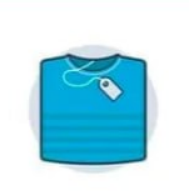
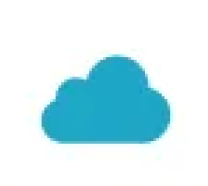
tailwind css

diff --git a/index.html b/index.html
@@ -1,53 +1,30 @@
-<!DOCTYPE html>
-<html lang="en">
+<!DOCTYPE html><html lang="en">
 <head>
     <meta charset="UTF-8" />
     <meta name="viewport" content="width=device-width, initial-scale=1.0" />
-    <title>Pricing Cards</title>
+    <title>weather</title>
     <script src="https://cdn.tailwindcss.com"></script>
 </head>
-<body class="min-h-screen flex items-center justify-center bg-gradient-to-br from-teal-400 to-teal-500">
-<div class="bg-white rounded-2xl shadow-xl p-8 max-w-4xl w-full">
-    <div class="grid grid-cols-1 md:grid-cols-3 gap-8 text-center">
-        <div class="flex flex-col items-center">
-            <div class="w-24 h-24 rounded-full bg-teal-100 flex items-center justify-center mb-4">
-                <img src="img/img.png" alt="personal__t-shirt">
-            </div>
-            <h3 class="uppercase tracking-widest text-gray-400 text-sm">Personal</h3>
-            <ul class="mt-4 space-y-2 text-gray-500 text-sm">
-                <li>1 Domain</li>
-                <li>500 Disk Space</li>
-                <li>E-mail Support</li>
-            </ul>
-            <p class="mt-6 text-2xl font-semibold text-gray-300">$0.00</p>
+<body class="bg-blue-500">
+
+<section class=" py-16 flex flex-col items-center justify-center">
+    <span class="bg-white/80 text-sky-700 px-4 py-1 rounded-full text-sm font-medium shadow">OB-HAVO SAYTI
+    </span>
+    <div class="mt-10 bg-white rounded-2xl shadow-lg px-8 py-6 flex gap-10">
+        <div class="flex flex-col items-center text-center">
+            <img src="img/img_3.png" alt="sunny">
+            <p class="mt-2 text-xs text-gray-500">4 MAY SESHANBA</p>
+            <p class="text-sm font-semibold text-gray-700">25*C - 30*C</p>
         </div>
 
-        <div class="flex flex-col items-center">
-            <div class="w-24 h-24 rounded-full bg-teal-200 flex items-center justify-center mb-4">
-                <img src="img/img_1.png" alt="team__t-shirt">
-            </div>
-            <h3 class="uppercase tracking-widest text-teal-600 text-sm font-semibold">Team</h3>
-            <ul class="mt-4 space-y-2 text-gray-600 text-sm">
-                <li>5 Domain</li>
-                <li>1000 Disk Space</li>
-                <li>Mon-Fri Support</li>
-            </ul>
-            <p class="mt-6 text-2xl font-bold text-yellow-500">$99.99</p>
-        </div>
 
-        <div class="flex flex-col items-center">
-            <div class="w-24 h-24 rounded-full bg-gray-200 flex items-center justify-center mb-4">
-                <img src="img/img_2.png" alt="personal__t-shirt">
-            </div>
-            <h3 class="uppercase tracking-widest text-gray-500 text-sm font-semibold">Corporate</h3>
-            <ul class="mt-4 space-y-2 text-gray-600 text-sm">
-                <li>20 Domain</li>
-                <li>Unlimited Disk Space</li>
-                <li>24/7 Support</li>
-            </ul>
-            <p class="mt-6 text-2xl font-bold text-red-500">$399.9</p>
+        <div class="flex flex-col items-center text-center">
+            <img src="img/img.png" alt="bulut">
+            <p class="mt-2 text-xs text-gray-500">5 MAY CHORSHANBA</p>
+            <p class="text-sm font-semibold text-gray-700">25*C - 30*C</p>
         </div>
     </div>
-</div>
+
+</section>
 </body>
 </html>
